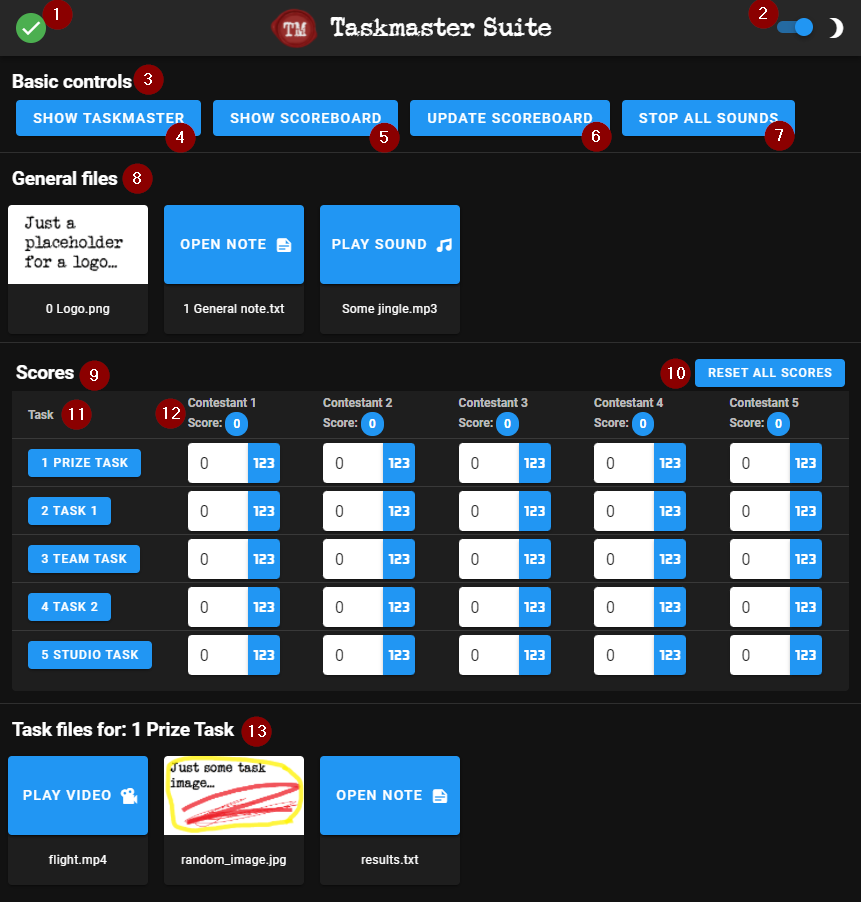
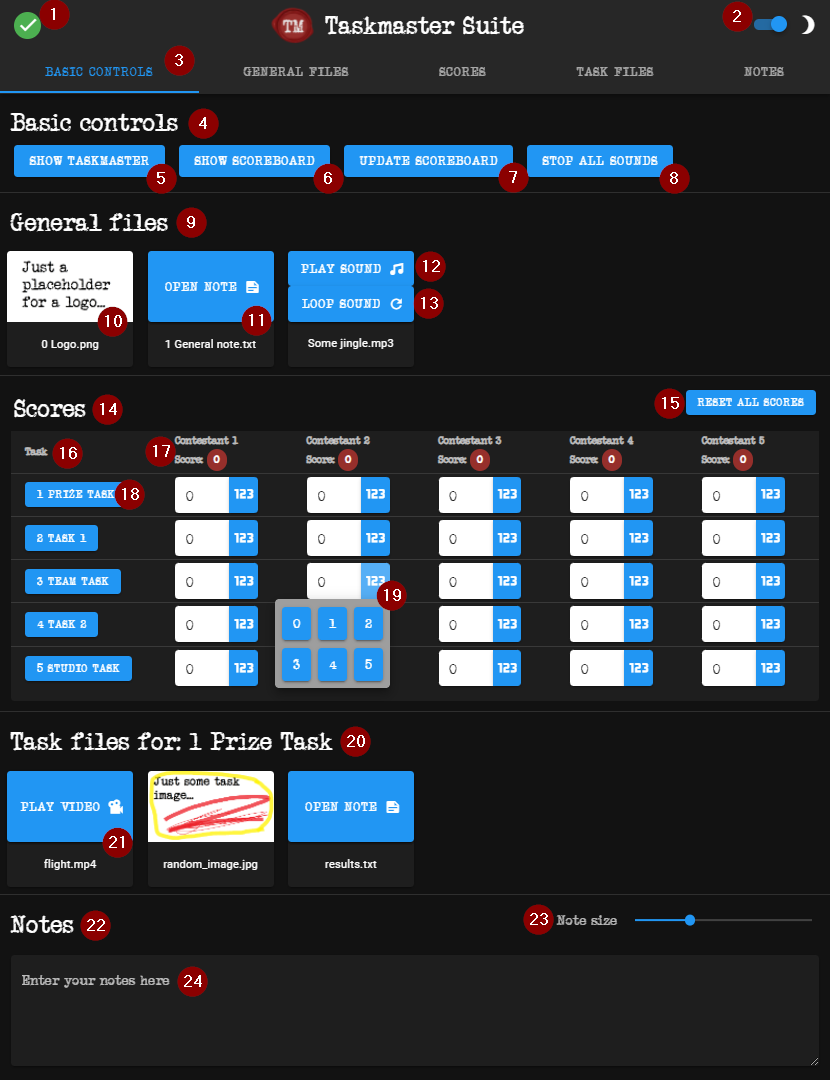
updated readme for notes

diff --git a/README.md b/README.md
@@ -18,18 +18,29 @@ Note that this application was tested on Windows 10 and an up-to-date version of
 ![Assistant screen](sources/readme/assistant_screen.png)
 
 1. This is either a red cross or a green check mark, letting you know whether the website is connected to the server which you are running (`server.exe`).
-2. Top right corner: Change between light and dark mode here.
-3. Section `Basic controls`: As of now, there are four buttons here (points 4.-8.).
-4. Show taskmaster: Will show the taskmaster image on the audience screen (the one which is shown when you open the audience screen the first time).
-5. Show scoreboard: Will show the scoreboard with all contestants and their current scores.
-6. Update scoreboard: Having distributed the scores, the assistant can click this button and the contestants get their scores updated on the audience screen and switch places.
-7. Stop all sounds: In case any sound is playing, it is stopped using this button.
-8. Section `General files`: Any files which you have placed into the `data` directory. More information on how to set the files can be found below in the section [`Alter files`](#alter-files).
-9. Section `Scores`: Table with tasks and contestants and the respective scores.
-10. Reset all scores: Will set all scores to 0 after reconfirmation.
-11. All tasks are listed in the table vertically. Clicking on them will open the task in the section `Task files for: <Task name>` (see point 13).
-12. All contestants are listed in the table horizontally. You can also see the total score (sum of all task scores) for each contestant.
-13. Section `Task files for: <Task name>`: Any files which are related to a specific task. Choose the task by clicking on the button in the table above. More information on how to set the files can be found below in the section [`Alter files`](#alter-files).
+2. Change between light and dark mode here.
+3. Quick navigation buttons help you to get to the section you need quickly.
+4. Section `Basic controls`: As of now, there are four buttons here (points 5.-8.).
+5. Show taskmaster: Will show the taskmaster image on the audience screen (the one which is shown when you open the audience screen the first time).
+6. Show scoreboard: Will show the scoreboard with all contestants and their current scores.
+7. Update scoreboard: Having distributed the scores, the assistant can click this button and the contestants get their scores updated on the audience screen and switch places.
+8. Stop all sounds: In case any sound is playing, it is stopped using this button.
+9. Section `General files`: Any files which you have placed into the `data` directory. More information on how to set the files can be found below in the section [`Alter files`](#alter-files).
+10. An example for an image file. Click on the image to show it on the audience screen.
+11. An example for a note file. Click on it to see the note on the assistant screen.
+12. An example for a sound file. Click on Play Sound to play the sound once.
+13. Click on Loop Sound to play the sound in a loop.
+14. Section `Scores`: Table with tasks and contestants and the respective scores.
+15. Reset all scores: Will set all scores to 0 after reconfirmation.
+16. All tasks are listed in the table vertically.
+17. All contestants are listed in the table horizontally. You can also see the total score (sum of all task scores) for each contestant.
+18. Clicking on a task will open it in the section `Task files for: <Task name>` (see point 20).
+19. Scores can be given in two ways: Either directly via the text field or by clicking on the "123" button and using the quick buttons for scores 0 to 6.
+20. Section `Task files for: <Task name>`: Any files which are related to a specific task. Choose the task by clicking on the button in the table above. More information on how to set the files can be found below in the section [`Alter files`](#alter-files).
+21. An example for a video file. Click on it to play the video on the audience screen.
+22. Section `Notes`: One text area which you can fill according to your needs.
+23. Slider to change the size of the note text area.
+24. Note text area.
 
 ## Alter files
 You can change almost anything to make the application show the images and videos that you want. The only time you ever need to reload the audience website is after you've changed any of the following:
